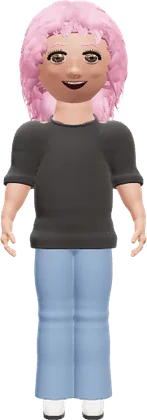
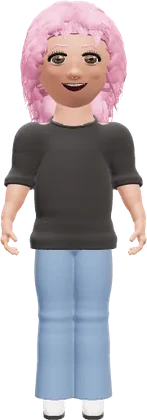
Face and body: oval heads, defined waist, slimmer limbs, relaxed hands
- Every head shape is a touch more oval with a slimmer jaw and a slightly
  longer chin (hair, features and accessories follow automatically)
- Body: defined waist (more on feminine builds), slimmer arms and calves
- Hands rest in a natural cascade (index nearly straight, each finger
  toward the pinky more curled), thumb relaxed alongside
- Nose: a defined tip with a soft bulb underneath
- Starter / welcome pictures re-rendered; sculpt v50, thumbnails v27

Claude-Session: https://claude.ai/code/session_011n7UBMF7siA6WHFHfiWuWV

diff --git a/src/features/avatar/sculpt3d/anatomy.ts b/src/features/avatar/sculpt3d/anatomy.ts
@@ -109,12 +109,12 @@ export function joints(bp: BodyP): Joints {
     handS,
     footS,
     r: {
-      upperArm: 0.066 * k * mF,
-      foreArm: 0.058 * k * mF,
+      upperArm: 0.061 * k * mF,
+      foreArm: 0.053 * k * mF,
       wrist: 0.04 * Math.min(w, 1.06) * (1 - 0.1 * F),
       thigh: (0.104 + 0.012 * F) * Math.min(w * hp, 1.22),
       knee: 0.072 * k * (1 - 0.06 * F),
-      calf: 0.084 * k * (1 - 0.06 * F),
+      calf: 0.079 * k * (1 - 0.06 * F),
       ankle: 0.046 * k * (1 - 0.08 * F),
       neck: (0.094 - 0.014 * F) * k,
     },
@@ -184,7 +184,7 @@ export function bodyPrims(J: Joints, inf = 0, only?: Region[], tagBase = 0): Pri
       hi,
       [
         [0.9, 0.06 * hp * W], [0.94, (0.13 + 0.012 * F) * hp * W], [0.99, (0.176 + 0.018 * F) * hp * W], [1.05, (0.17 + 0.016 * F) * hp * W],
-        [1.14, (0.15 - 0.006 * F + bl * 0.02) * W], [1.21, (0.146 - 0.018 * F + bl * 0.03) * W], [1.3, (0.155 - 0.012 * F + bl * 0.02) * W],
+        [1.14, (0.146 - 0.012 * F + bl * 0.02) * W], [1.21, (0.14 - 0.026 * F + bl * 0.03) * W], [1.3, (0.155 - 0.012 * F + bl * 0.02) * W],
         [1.42, (0.162 - 0.014 * F) * sh * W], [1.52, (0.172 - 0.02 * F) * sh * W], [1.6, (0.182 - 0.026 * F) * sh * W],
         [1.66, (0.15 - 0.018 * F) * sh], [1.71, 0.1 - 0.008 * F], [1.75, 0.078 - 0.008 * F],
       ],

diff --git a/src/features/avatar/sculpt3d/rig.ts b/src/features/avatar/sculpt3d/rig.ts
@@ -82,7 +82,8 @@ export type Gesture = 'relaxed' | 'open' | 'fist' | 'point' | 'peace' | 'thumbsu
 
 /** Finger curl (radians) per finger [thumb, index, middle, ring, pinky], [base, tip]. */
 const CURL: Record<Gesture, [number, number][]> = {
-  relaxed: [[0.15, 0.15], [0.25, 0.3], [0.32, 0.38], [0.38, 0.42], [0.45, 0.5]],
+  // natural rest: a soft cascade — index nearly straight, each finger toward the pinky a bit more curled
+  relaxed: [[0.2, 0.25], [0.3, 0.42], [0.42, 0.55], [0.52, 0.62], [0.62, 0.72]],
   open: [[0.0, 0.05], [0.05, 0.05], [0.04, 0.05], [0.05, 0.06], [0.06, 0.08]],
   wave: [[-0.1, 0.0], [0.0, 0.02], [0.0, 0.02], [0.02, 0.03], [0.04, 0.05]],
   fist: [[0.55, 0.7], [1.45, 1.6], [1.5, 1.65], [1.5, 1.6], [1.45, 1.55]],
@@ -100,7 +101,7 @@ const SPREAD: Partial<Record<Gesture, number[]>> = {
 
 /** Thumb [swing out/forward (x), fold toward the palm (z), tip bend] per gesture. */
 const THUMB: Record<Gesture, [number, number, number]> = {
-  relaxed: [-0.15, 0.15, 0.2],
+  relaxed: [-0.3, 0.25, 0.25],
   open: [-0.55, -0.1, 0.05],
   wave: [-0.65, -0.15, 0.0],
   fist: [-0.25, 0.75, 0.55],

diff --git a/src/features/avatar/sculpt3d/head.ts b/src/features/avatar/sculpt3d/head.ts
@@ -50,7 +50,9 @@ function build(h: HeadShape, nose: NoseP | null, ears: EarP): THREE.BufferGeomet
     // bridge: a soft ridge from between the eyes down to the tip
     const top = T([0, y + 0.085, surfaceZ(h, 0, y + 0.085) - 0.012]);
     const tip = T([0, tipY + 0.006, z + 0.014]);
-    prims.push({ t: 'cone', a: top, b: tip, ra: 0.014 * p.bridgeW + p.bridge * 0.004, rb: 0.022 * p.tipW, k: 0.02, bone: 0 });
+    prims.push({ t: 'cone', a: top, b: tip, ra: 0.012 * p.bridgeW + p.bridge * 0.004, rb: 0.02 * p.tipW, k: 0.016, bone: 0 });
+    // a defined nose: a soft bulb at the tip with a little shadow line under it (the columella)
+    prims.push({ t: 'ellipsoid', c: T([0, tipY - 0.014 * p.tipS, z - 0.002]), r: [0.011 * p.tipW * S, 0.01 * S, 0.016 * S], k: 0.01, bone: 0 });
     // rounded tip
     prims.push({ t: 'ellipsoid', c: T([0, tipY, z + 0.012]), r: [0.034 * p.tipW * S, 0.031 * p.tipS * S, 0.038 * p.tipS * S], rot: [-p.up * 0.3, 0, 0], k: 0.014, bone: 0 });
     // nostril wings (alae)

diff --git a/src/features/avatar/sculptV2.ts b/src/features/avatar/sculptV2.ts
@@ -4,5 +4,7 @@ import type { HeadP } from './look/face';
 /** Build a HeadShape from a v2 head variant plus the overall face-scale tune (-1 … 1). */
 export function headFromParams(p: HeadP, faceTune = 0): HeadShape {
   const k = 1 + faceTune * 0.06;
-  return { ...p, rx: p.rx * k, ry: p.ry * (1 + faceTune * 0.03), rz: p.rz * k };
+  // stylised-adult face: a touch more oval, a slimmer jaw and a slightly longer chin than the
+  // raw catalogue shape (every head shape keeps its own character)
+  return { ...p, rx: p.rx * k * 0.98, ry: p.ry * (1 + faceTune * 0.03) * 1.03, rz: p.rz * k, jawN: Math.min(0.55, p.jawN + 0.07), chinLow: p.chinLow * 1.05 };
 }

diff --git a/src/features/avatar/editor/thumbs.tsx b/src/features/avatar/editor/thumbs.tsx
@@ -54,7 +54,7 @@ const cache = new Map<string, string>();
  * opens instantly on later visits. Bump the version whenever the renderer
  * changes how variants look.
  */
-const STORE = 'snv-thumbs-v26';
+const STORE = 'snv-thumbs-v27';
 const storeKey = (key: string) => `/__thumb/${encodeURIComponent(key)}`;
 async function fromStore(key: string): Promise<string | null> {
   try {

diff --git a/src/features/avatar/sculpt3d/jobs.ts b/src/features/avatar/sculpt3d/jobs.ts
@@ -22,7 +22,7 @@ export type Job =
   | { k: 'head'; h: HeadShape; nose: NoseP | null; ears: EarP };
 
 /** Bump when any sculpt builder changes its output (invalidates the on-device cache). */
-export const SCULPT_VERSION = 47;
+export const SCULPT_VERSION = 50;
 
 const r3 = (n: number) => Math.round(n * 1000) / 1000;
 export function jobKey(j: Job): string {
